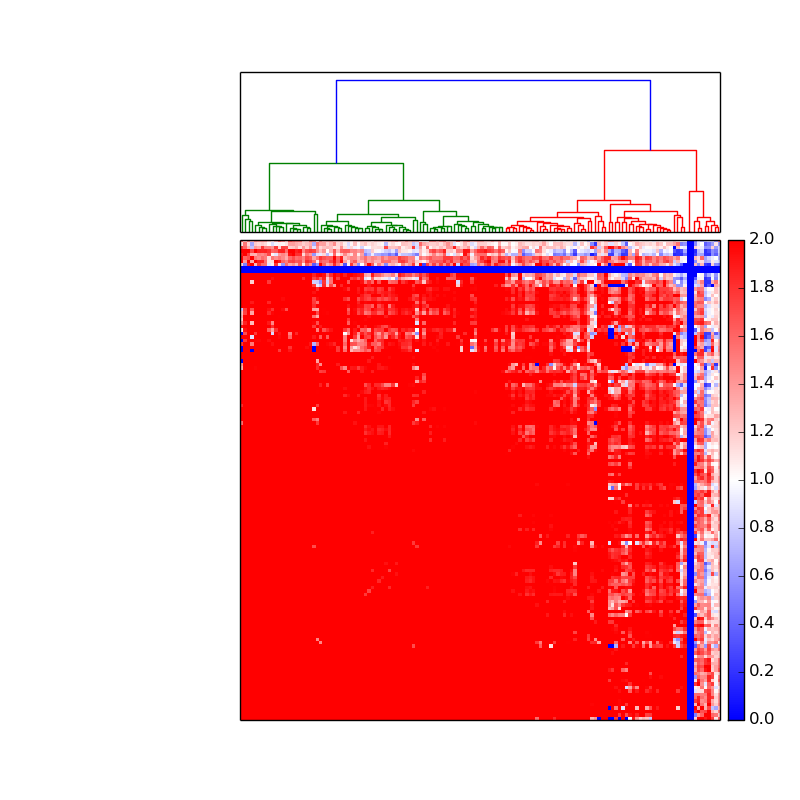
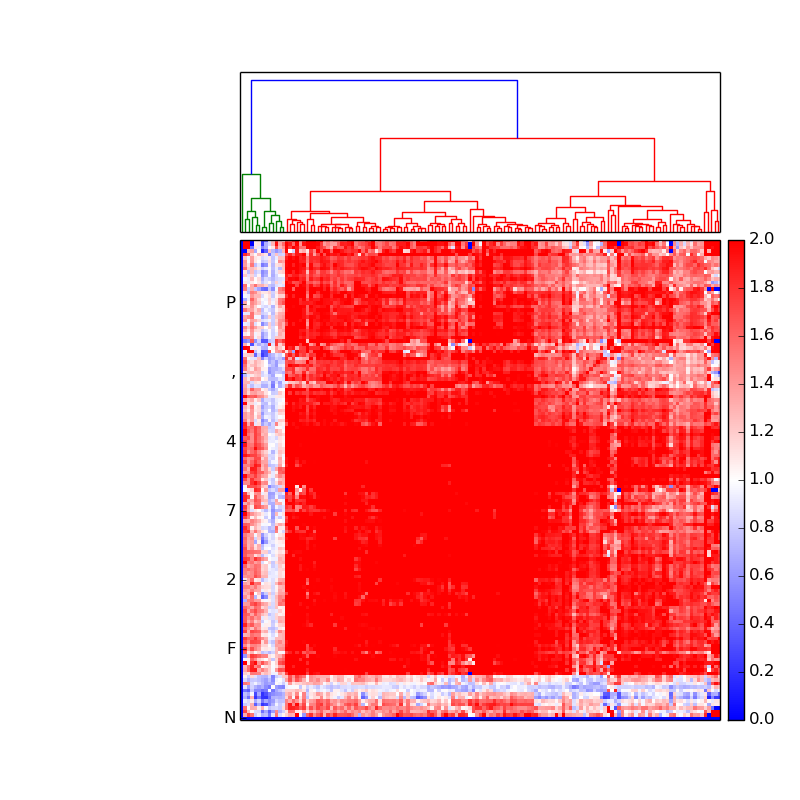
updates

diff --git a/src/create_matrix_from_bidirectional.py b/src/create_matrix_from_bidirectional.py
@@ -123,6 +123,8 @@ def run():
     im = axmatrix.matshow(D, aspect='auto', origin='lower', cmap=pylab.cm.bwr,vmax=2,vmin=0)
     axmatrix.set_xticks([])
     #axmatrix.set_yticks([])
+    res = 7
+    axmatrix.set_yticks(np.arange(0,vectors.shape[0],res))
     axmatrix.yaxis.tick_left()
     axmatrix.set_yticklabels(",".join([labels[val] for val in idx1]))
     
